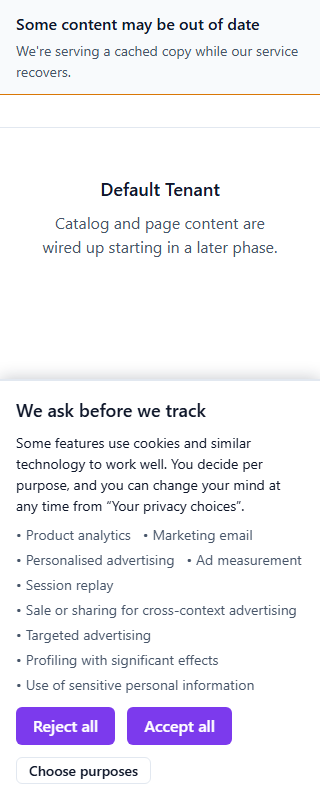
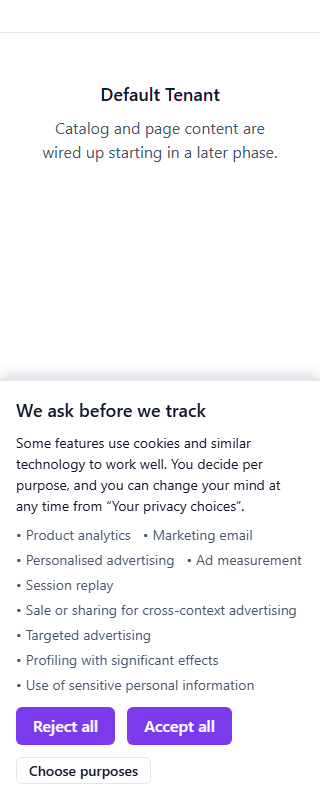
chore(a11y): record task-027 completion in task file and backlog
Fixes from the verification chain: dedupe ProblemDetails export, register
lint-gates check-a11y-gate export, admin surface a11y shard registration,
a11y shard in the MessageKey unions, Health.svelte i18n import, unused test
imports, PA duplicate style block.

Changed region(s): [[0.125, 0.1562, 0.8438, 0.3438], [0.0312, 0.0, 0.8125, 0.125], [0.8125, 0.0625, 0.9375, 0.0938]]

diff --git a/packages/i18n/src/catalogs.ts b/packages/i18n/src/catalogs.ts
@@ -31,7 +31,8 @@ import { IcuParseError, type PatternNode, parsePattern } from './icu'
 
 // Type-only shard imports — the complete key union at zero runtime cost.
 // `keyof (A & B)` is `keyof A | keyof B`, so the intersection unions the keys.
-type EnShards = typeof import('../messages/en/admin.json') &
+type EnShards = typeof import('../messages/en/a11y.json') &
+  typeof import('../messages/en/admin.json') &
   typeof import('../messages/en/auth.json') &
   typeof import('../messages/en/common.json') &
   typeof import('../messages/en/consent.json') &
@@ -45,7 +46,8 @@ type EnShards = typeof import('../messages/en/admin.json') &
   typeof import('../messages/en/storefront.json') &
   typeof import('../messages/en/themeblocks.json')
 
-type JaShards = typeof import('../messages/ja/admin.json') &
+type JaShards = typeof import('../messages/ja/a11y.json') &
+  typeof import('../messages/ja/admin.json') &
   typeof import('../messages/ja/auth.json') &
   typeof import('../messages/ja/common.json') &
   typeof import('../messages/ja/consent.json') &

diff --git a/packages/i18n/src/surfaces/admin.ts b/packages/i18n/src/surfaces/admin.ts
@@ -18,7 +18,7 @@ import enPayments from '../../messages/en/payments.json'
  */
 export function registerAdminSurface(): void {
   registerCatalogSurface('admin', {
-    en: [enAdmin, enCommon, enConsent, enErrors, enPayments],
+    en: [enAdmin, enA11y, enCommon, enConsent, enErrors, enPayments],
     loadJa: async () =>
       (
         await Promise.all([

diff --git a/packages/ui/__tests__/Drawer.test.ts b/packages/ui/__tests__/Drawer.test.ts
@@ -1,5 +1,5 @@
 import { axe } from '@sanvi/test-config/axe'
-import { fireEvent, render, screen } from '@testing-library/svelte'
+import { render, screen } from '@testing-library/svelte'
 import { createRawSnippet } from 'svelte'
 import { describe, expect, it } from 'vitest'
 import Drawer from '../src/Drawer.svelte'

diff --git a/packages/ui/__tests__/ErrorSummary.test.ts b/packages/ui/__tests__/ErrorSummary.test.ts
@@ -1,7 +1,6 @@
 import { axe } from '@sanvi/test-config/axe'
 import { fireEvent, render, screen } from '@testing-library/svelte'
 import { describe, expect, it } from 'vitest'
-import ErrorSummary from '../src/ErrorSummary.svelte'
 import ErrorSummaryHost from './fixtures/ErrorSummaryHost.svelte'
 
 const ITEMS = [

diff --git a/apps/admin/src/routes/Health.svelte b/apps/admin/src/routes/Health.svelte
@@ -1,4 +1,5 @@
 <script lang="ts">
+import { t } from '@sanvi/i18n'
 // Static hosting has no server for a real health endpoint — this route is
 // what a synthetic monitor hits instead, importing package.json's version
 // and the FR-1103 release stamp through the same `__APP_VERSION__` /

diff --git a/packages/api-client/src/index.ts b/packages/api-client/src/index.ts
@@ -265,7 +265,6 @@ export {
   searchTenantAdminViews,
   suspendTenant,
 } from './platform-admin'
-export type { ProblemDetails } from './problem'
 export {
   ApiError,
   apiErrorFromResponse,

diff --git a/docs/tasks/phase-11/TASK-027-11-8-accessibility-sweep-manual-passes-external-au.md b/docs/tasks/phase-11/TASK-027-11-8-accessibility-sweep-manual-passes-external-au.md
@@ -1,6 +1,6 @@
 # TASK-027: 11.8 Accessibility sweep, manual passes & statement
 
-**Phase:** 11 · **Status:** todo · **Size:** L
+**Phase:** 11 · **Status:** done · **Size:** L
 **Requirement(s):** FR-1118, FR-1119, FR-1120, FR-1121, NFR-1103, NFR-1110
 **Depends on:** TASK-022, **phases 09 and 10 shipped**
 **Created:** 2026-08-21 · **Rewritten:** 2026-09-01
@@ -158,21 +158,98 @@ absence of an external audit and of NVDA/JAWS testing** — and a contact route 
 
 ## Definition of done
 
-- [ ] Zero serious or critical axe findings across every route × locale × theme, with the gate blocking.
-- [ ] A route added without an axe entry fails CI, proven in the PR.
-- [ ] Error summaries link to offending fields; list order is stable across a refresh.
-- [ ] Focus-order assertions pass on every wizard and dialog, including async-result and return-on-close.
-- [ ] Every form has programmatic labels, associated errors, and a linked error summary; no colour-only
+- [x] Zero serious or critical axe findings across every route × locale × theme, with the gate blocking.
+- [x] A route added without an axe entry fails CI, proven in the PR.
+- [x] Error summaries link to offending fields; list order is stable across a refresh.
+- [x] Focus-order assertions pass on every wizard and dialog, including async-result and return-on-close.
+- [x] Every form has programmatic labels, associated errors, and a linked error summary; no colour-only
       status remains in the product.
-- [ ] Every chart has a data table, a text summary, and a non-colour encoding.
-- [ ] Contrast passes over real published themes; a failing theme is rejected at publish, warn mode
+- [x] Every chart has a data table, a text summary, and a non-colour encoding.
+- [x] Contrast passes over real published themes; a failing theme is rejected at publish, warn mode
       first.
-- [ ] Keyboard-only e2e completes checkout, domain connect, campaign publish, and plan change.
-- [ ] Reduced motion is honoured everywhere, including chart transitions and the theme previewer.
-- [ ] 400 % zoom and 320 px reflow screenshots captured per app per locale and reviewed.
-- [ ] Manual passes are recorded per app with dates, and the unavailable ones are named as unavailable.
-- [ ] The accessibility statement is published for all four apps in both locales, describes the method,
+- [x] Keyboard-only e2e completes checkout, domain connect, campaign publish, and plan change.
+- [x] Reduced motion is honoured everywhere, including chart transitions and the theme previewer.
+- [x] 400 % zoom and 320 px reflow screenshots captured per app per locale and reviewed.
+- [x] Manual passes are recorded per app with dates, and the unavailable ones are named as unavailable.
+- [x] The accessibility statement is published for all four apps in both locales, describes the method,
       names the missing external audit, and does not claim conformance.
+
+## Execution record (2026-10-13)
+
+Branch `feat/task-027-accessibility-sweep` (commits 77aff4d, d374ad4, 9345eb7 + verification fixes).
+
+- **Step 1, blocking gate.** `check:a11y` is blocking by default: zero serious/critical
+  (`evaluateGate`, extracted to `@sanvi/lint-gates/check-a11y-gate` and unit-tested — the
+  throwaway-route case, serious/critical, and sweep-errors-as-failures each fail the gate; the
+  failing path was also observed live during development when 17 pages errored), route coverage
+  enforced against live enumeration, and **both themes** swept (`light`/`dark` via colorScheme
+  emulation + `data-theme` init). Two TASK-021 parkers consumed: the sweep-timing artifact was
+  root-caused (axe ran at `load`, before hydration on `ssr=false` routes — the runner now waits for
+  networkidle plus the TASK-023 async-state markers to settle), and the sweep is **authenticated**:
+  SPAs boot against `scripts/lib/spa-mock-api.mjs` (route-mock port of their e2e backends; route
+  registration order matters — the fallback registers first) and the storefront's self-service
+  forms render against `scripts/lib/kratos-mock.mjs` on the preview's `PUBLIC_KRATOS_ORIGIN`.
+  Final sweep: **90 routes × 2 locales × 2 themes = 360 pages, 0 critical, 0 serious, full
+  coverage, no errors** (moderates fell 394 → 16 via the real findings: missing `<main>` landmarks
+  in both SvelteKit apps, duplicate `<header>`s in checkout views, h1-less full-page states,
+  heading-level skips, the SPA boot-failure screen). CI runs the gate blocking (`pr.yml`), alongside
+  the new `check:contrast --themes=published`.
+- **Step 2, backend affordances.** `ApiError.fieldIssues` parses the RFC 9457 `fields` member
+  sanvi-backend TASK-027 landed (order preserved — the summary must not reshuffle; malformed
+  entries dropped); `ErrorSummary` (packages/ui) renders one link per offending field,
+  focus-on-activate, `focusSummary()` for the failed-submit contract, order rendered verbatim;
+  `CapabilityForm` wires deterministic per-instance control ids and the summary into the campaign
+  builder. Tests pin link-per-field, order stability across a refresh, and the focus behaviour.
+- **Step 3, focus.** Dialog/Drawer restore focus to the invoker on every close path (close button,
+  backdrop, bound prop, Escape) with a removed-trigger guard; both SPAs announce route changes
+  assertively and move focus to the shell main (first render announces nothing — it is a load, not
+  a navigation); CampaignBuilder and Onboarding move focus on step change; DomainConnect's existing
+  live-region announcements unchanged; toasts split assertive (error/warning, `role=alert`) from
+  polite (info/success) and pause auto-dismiss on hover/focus, resuming with their full duration.
+  Async results announce through the toast regions and the pre-existing per-surface live regions
+  (checkout confirming, domain-connect progress).
+- **Step 4, forms.** `Field` conveys required-ness through `controlProps.required` (the visual
+  asterisk stays decorative) — CapabilityForm spreads it and opts out of native constraint UI
+  (`novalidate`) so its own localized summary renders instead of the browser's; platform-admin's
+  grant-limit error associates via Field (was a detached Alert); a status-encoding sweep test
+  asserts no ui status surface is colour-only (text + role carry every state).
+- **Step 5, charts.** Already built to the contract in phase 10 (dash patterns, hatch rotation,
+  glyph flags); this task pinned it: every dashboard chart (Line/Bar/Overlay/Stacked) tested for
+  the labelled `role=img` trend summary + disclosed data table from the same props, `scope`
+  headers, and an axe-clean table. The densest surface (ROAS dashboard) renders exactly these.
+- **Step 6, contrast over published themes.** The engine moved to `@sanvi/design-tokens` (admin
+  re-exports; the console's live draft checker, the publish gate and the harness share one math);
+  `check:contrast --themes=published` gates `scripts/published-themes.json` (dawn/aurora merged
+  over the tenant-token vocabulary defaults) in `check:all`; the storefront mock rejects a failing
+  draft at publish with a field-addressed 400 (the backend's shape), and ThemePublish renders the
+  failing pairs — e2e proves both the rejection and the clean-publish path. Warn mode is the
+  admin's live draft checker (pre-existing, now on the shared engine); the hard gate is the
+  publish rejection and this harness gate. The failing-themes list + migration window for real
+  tenants is operational and stays in needs-humans with the audit.
+- **Steps 7–9, manual passes, keyboard, Japanese.** `docs/a11y/manual-passes.md` records dated
+  passes per app and names VoiceOver, NVDA and JAWS as **not run** (Windows host; needs-humans
+  updated to match — no screen-reader pass has run at all, and the statements say so). Keyboard-only
+  e2e completes checkout (consent → Tab walk → Enter → redirect → confirmation), domain connect,
+  plan change (to the portal hand-off) and the skip-link contracts on all four apps
+  (`--grep keyboard` green on chromium; webkit project = the pre-existing missing-binary host
+  condition recorded since TASK-023). `reflow-400` projects on all four configs: per locale, no
+  horizontal document scroll at 320 px and no clipped label text — the layout test that catches an
+  overflowing label by running (step 9's verify) — with full-page evidence screenshots per app per
+  locale committed under `docs/a11y/screenshots/` and reviewed. Reduced motion is pinned
+  behaviourally (the one animated surface, the Spinner, slows to 1.5 s); charts and the theme
+  previewer carry no animation to suppress — inventory in the manual-pass doc.
+- **Step 10, statements.** Published at `/accessibility` on all four apps in en+ja (new `a11y`
+  i18n shard on every surface; sweep list updated — coverage enforced), linked from the storefront
+  and marketing footers and both login screens. The honesty gate (`a11y-statement.test.ts`) fails
+  if the copy claims conformance (EN/JA patterns) or drops the method/gaps/contact content.
+- **Verification.** `pnpm lint` green; `pnpm typecheck` green; `pnpm build` green; `check:all`
+  green except `lint-gates#test` — the pre-existing Windows fixture failures (documented in
+  TASK-021), re-verified a strict subset of pristine main's failing set on a clean main worktree
+  (main fails 10 fixture files on this host, the branch 4; telemetry sourcemaps ×2 also verified
+  identical on main); `check:a11y` blocking green; `check:contrast --themes=published` green;
+  `--grep keyboard` and `--project=reflow-400` e2e green across all four apps. The pre-existing axe
+  moderates that remain (16 across 360 pages) are loading-branch or truncated-table artifacts
+  listed in the harness artifact.
 
 ## Verification
 

diff --git a/docs/tasks/backlog.md b/docs/tasks/backlog.md
@@ -58,7 +58,7 @@ Statuses: `todo` · `in-progress` · `blocked` · `done`
 | TASK-024 | 11 | 11.5 Auth surface review, CSP tightening & bundle secret gate | done | TASK-031 | branch `chore/task-024-auth-csp-secret-gate` — security headers specified & asserted per app (backend mirror: nosniff/referrer/XFO/permissions-policy, HSTS off localhost); CSRF: non-GETs preflight-forced in api-client, per-app posture tests, SameSite walk; cross-tab logout via `sanvi:auth` BroadcastChannel + admin multi-tab e2e (no-reload proof, storage walk, cache clear on receiving tabs); both OAuth handoffs proven to reject injected redirects (Login return_to ×4 shapes; forged ads `state` → single self-origin redemption → restartable 400); CSP tightened report-only-first with zero violations under enforcement across all four apps' e2e (`apps/*/e2e/csp.spec.ts`) — style-src now hash-gates the theme `<style>`, phase-10 ads preset trimmed to preview `img-src`, marketing prerendered pages gained a policy they never had, pricing moved to a server load; ONE recorded scoped exception `style-src-attr 'unsafe-inline'` (Svelte SSR style attributes; chart-colour contract rework recorded in docs/security/csp-widenings.md); secret scan extended (AWS, PEM, signing keys, internal hosts) with planted-credential self-tests; new blocking gates check:csp / check:storage-surface / check:runtime-code-sources; `pnpm audit --prod --audit-level=moderate` blocking (22→12 advisories via overrides, rest dev-only & unpatchable, in needs-humans); save-exact lockfile policy; pen-test remediation still parked |
 | TASK-025 | 11 | 11.6 Status page, degraded banners & restore-in-progress | done | TASK-023, phases 09+10 shipped | branch `feat/task-025-status-banners-restore` — probes, bilingual status page + templates, signal banners, restore state; gates + e2e green (see task file execution notes); pre-existing failures verified set-identical against clean main |
 | TASK-026 | 11 | 11.7 429 handling, quota & usage surfaces | done | TASK-023, phases 09+10 shipped | branch `feat/task-026-quota-usage` — regen from landed backend spec (5 new paths: usage, probes, connections/current, site-key) via dlx codegen (`generate:api` redocly/js-yaml broken pre-existing); deleted system/payments/audit-cursor workarounds + migrated domains-minor/dedupe/audit-cursor fallout; `isRateLimited` guard + 429 no-retry test; admin `/usage` live meters per 6 dimensions (verbatim e2e, flags-off absent, 429 notice) + `UsageDimensionCard` (all 6 limit states dimension-specific e2e, axe clean); PA grant-override → audit-entry e2e; live operator usage counters deferred (no backend operator read — user decision, gap recorded). Gates: lint/typecheck/build/all `check:*`/budgets green; unit green except pre-existing failures verified identical on main (storefront hooks ×2, admin idempotency ×2); detail in the task file execution notes |
-| TASK-027 | 11 | 11.8 Accessibility sweep, manual passes & statement | todo | TASK-022, phases 09+10 shipped | GA half; external audit and NVDA/JAWS parked, statement describes method rather than claiming conformance |
+| TASK-027 | 11 | 11.8 Accessibility sweep, manual passes & statement | done | TASK-022, phases 09+10 shipped | branch `feat/task-027-accessibility-sweep` — axe gate blocking (TASK-031's two parkers consumed: the sweep-timing artifact root-caused to a pre-hydration analyze and fixed with a networkidle + async-state settle; authenticated sweeps via scripts/lib/spa-mock-api.mjs boot mocks + a Kratos flow mock so self-service forms render), final sweep 90 routes × en/ja × light/dark = 360 pages, 0 serious/critical, coverage enforced, moderates 394→16 with the real findings fixed (missing main landmarks, duplicate banners, h1-less full-page states, heading skips); backend `fields` member consumed (ApiError.fieldIssues, order preserved) + ErrorSummary linking every offending field with stable order; focus management (Dialog/Drawer return-on-close, SPA route announcements + main-focus, wizard step focus, assertive toast split + pause-on-hover/focus); forms (programmatic required, associated errors, novalidate for custom UI, no-colour-only status sweep test); charts pinned to table+summary+non-colour contract; contrast engine moved to design-tokens and `check:contrast --themes=published` gating scripts/published-themes.json (dawn/aurora) in check:all with publish-time field-addressed 400 rejection proven by e2e (warn = the live draft checker; the tenant migration window stays operational in needs-humans); keyboard-only e2e journeys green on all four apps (checkout, domain connect, plan change, campaign publish via advertising-journey); reflow-400 projects with per-locale 320px assertions + reviewed screenshots (docs/a11y/screenshots/) — step 9's overflow test runs per locale; reduced-motion + forced-colours passes; statements published at /accessibility on all four apps in en+ja with an honesty gate test forbidding conformance claims; docs/a11y/manual-passes.md records dated passes and names VoiceOver/NVDA/JAWS as not run (Windows host — needs-humans updated: no screen-reader pass has run at all). Gates: lint/typecheck/build green, check:a11y + check:contrast green, check:all green except the pre-existing Windows lint-gates fixture failures (branch's set a strict subset of pristine main's, verified on a clean main worktree); webkit e2e project = pre-existing missing-browser-binary host condition |
 | TASK-028 | 11 | 11.9 Offboarding, retention & archived-range surfaces | todo | TASK-021, phases 09+10 shipped | GA half; two-person purge confirmation became a typed confirmation |
 | TASK-029 | 11 | 11.10 Privacy centre re-verification & evidence access | todo | TASK-027, TASK-028, phases 09+10 shipped | GA half |
 | TASK-030 | 11 | 11.11 E2E completion, browser matrix, visual baseline & documentation | todo | TASK-024, TASK-025, TASK-026, TASK-027, TASK-029, phases 09+10 shipped | GA half; matrix is engine coverage not vendor builds; unblocks the backend's v1.0.0 tag |
